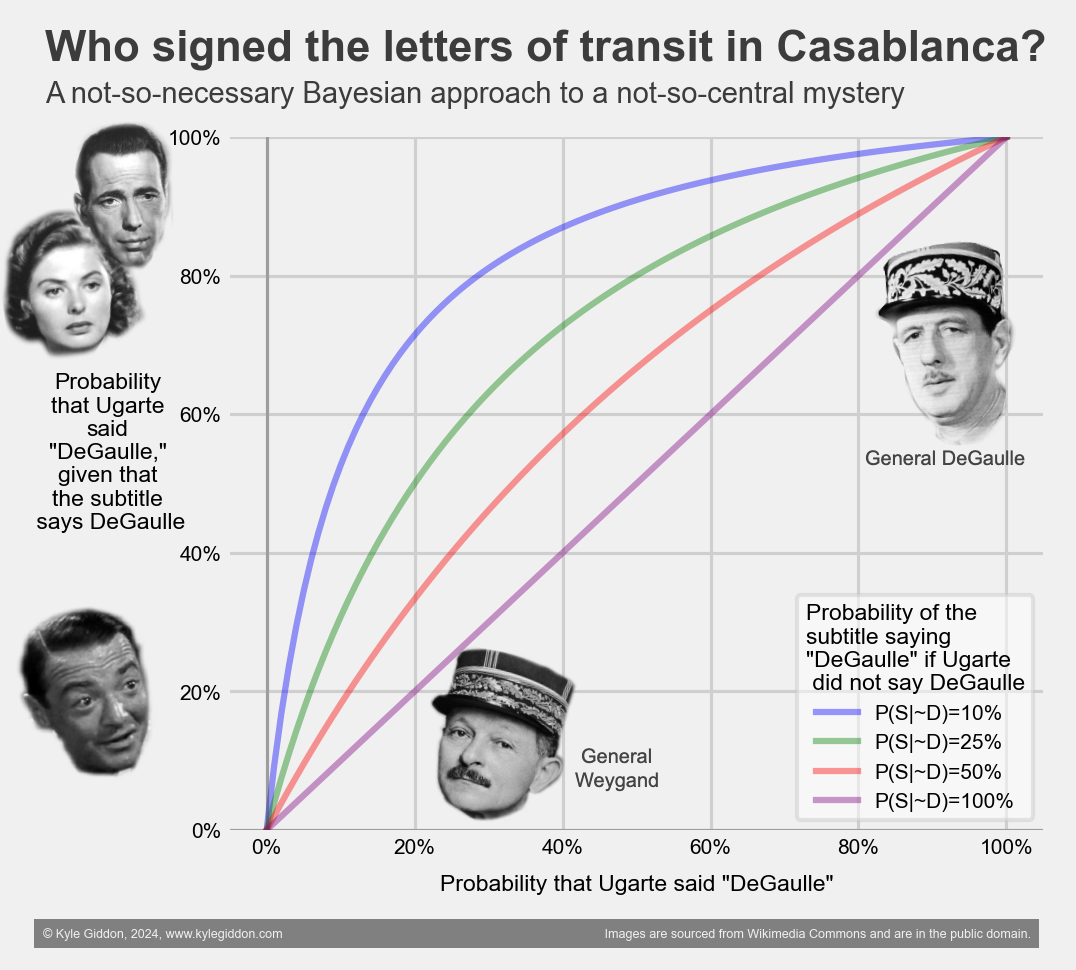
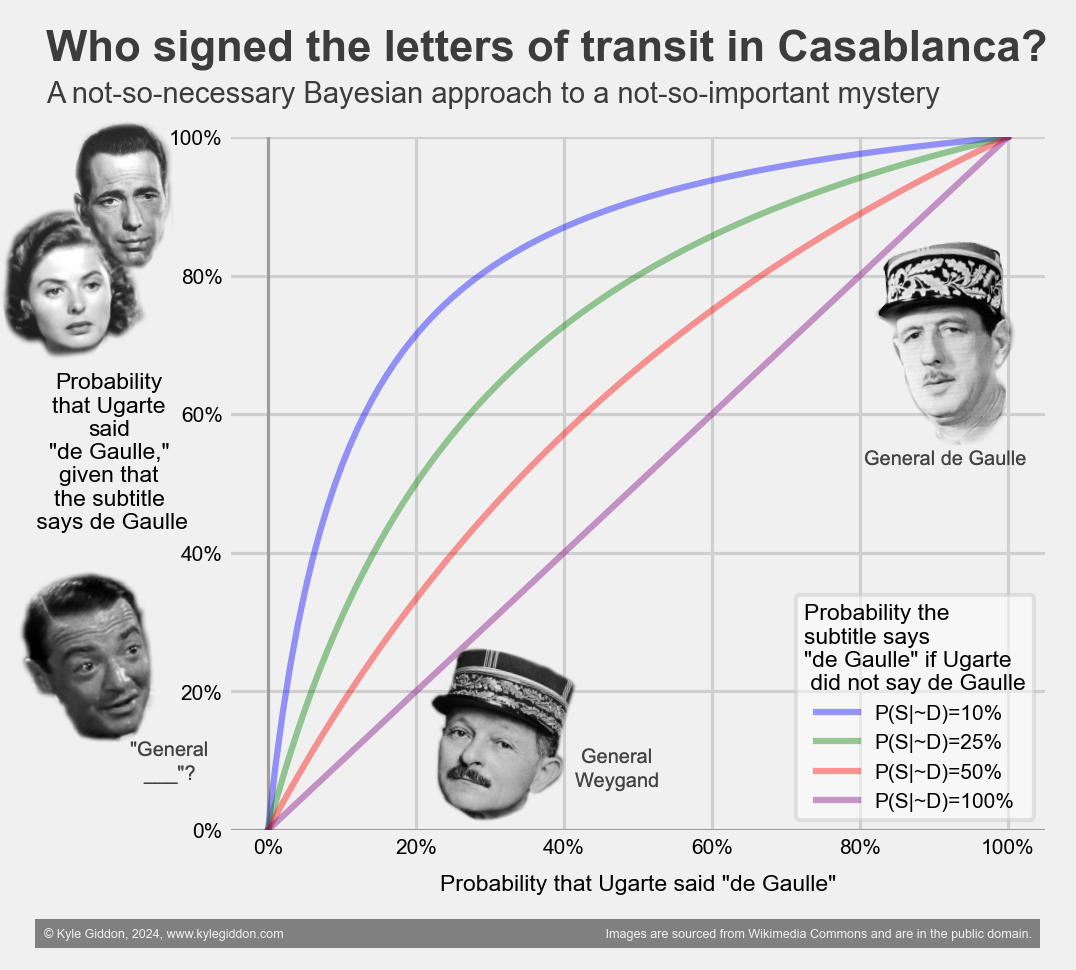
update image and de gaulle spelling

diff --git a/_posts/2024-02-17-casablanca-letters-of-transit.md b/_posts/2024-02-17-casablanca-letters-of-transit.md
@@ -6,30 +6,30 @@ usemathjax: true
 
 Last month, I was rewatching the great 1942 film *Casablanca* (as one does). Early on, the character Ugarte introduces the central [MacGuffin](https://en.wikipedia.org/wiki/MacGuffin) of the plot: the "letters of transit" that allow the bearer to move freely through Nazi-occupied territory. Watching with subtitles, I had to pause after this line:
 
-![Letters of transit signed by General DeGaulle](/images/casablanca/letters_of_transit.png)
+![Letters of transit signed by General de Gaulle](/images/casablanca/letters_of_transit.png)
 
-Letters of transit signed by General DeGaulle? This doesn't make much sense. Charles DeGaulle was the leader of the Free French forces, and his signature on certain papers would mean nothing in Vichy-controlled French West Africa, where the film is set.
+Letters of transit signed by General de Gaulle? This doesn't make much sense. Charles de Gaulle was the leader of the Free French forces, and his signature on certain papers would mean nothing in Vichy-controlled French West Africa, where the film is set.
 
-I'm not the first to notice this. This [convincing blog post by Richard Langworth](https://richardlangworth.com/darlan-degaulle-casablanca) argues that the subtitle is a mistake, and the line says the letters are signed by General *Weygand*, not DeGaulle.  [Maxime Weygand](https://en.wikipedia.org/wiki/Maxime_Weygand) was the Vichy government's Delegate-General in French North Africa—which makes perfect sense in the context of the film. (Ugarte is played by the Hungarian-accented Peter Lorre, and it's not entirely clear whether he says "DeGaulle" or "Weygand" in the original audio.)
+I'm not the first to notice this. This [convincing blog post by Richard Langworth](https://richardlangworth.com/darlan-degaulle-casablanca) argues that the subtitle is a mistake, and the line says the letters are signed by General *Weygand*, not de Gaulle.  [Maxime Weygand](https://en.wikipedia.org/wiki/Maxime_Weygand) was the Vichy government's Delegate-General in French North Africa—which makes perfect sense in the context of the film. (Ugarte is played by the Hungarian-accented Peter Lorre, and it's not entirely clear whether he says "de Gaulle" or "Weygand" in the original audio.)
 
-We can ask the question in terms of [Bayesian inference](https://en.wikipedia.org/wiki/Bayesian_inference). Given the evidence of the subtitle saying "General DeGaulle", what is the probability that Ugarte says "DeGaulle" in the actual film?
+We can ask the question in terms of [Bayesian inference](https://en.wikipedia.org/wiki/Bayesian_inference). Given the evidence of the subtitle saying "General de Gaulle", what is the probability that Ugarte says "de Gaulle" in the actual film?
 
 Let's define the following terms:
 
-- $$P(D)$$: The prior probability that Ugarte says "DeGaulle" in the film.
-- $$P(S\mid D)$$: The probability that the subtitle says "DeGaulle" given that Ugarte says "DeGaulle" in the film.
-- $$P(S\mid\neg D)$$: The probability that the subtitle says "DeGaulle" given that Ugarte does *not* say "DeGaulle" in the film.
+- $$P(D)$$: The prior probability that Ugarte says "de Gaulle" in the film.
+- $$P(S\mid D)$$: The probability that the subtitle says "de Gaulle" given that Ugarte says "de Gaulle" in the film.
+- $$P(S\mid\neg D)$$: The probability that the subtitle says "de Gaulle" given that Ugarte does *not* say "de Gaulle" in the film.
 
 
-Given this, we want to solve for $$P(D\mid S)$$, the probability that Ugarte says "DeGaulle" in the film given that the subtitle says "DeGaulle".
+Given this, we want to solve for $$P(D\mid S)$$, the probability that Ugarte says "de Gaulle" in the film given that the subtitle says "de Gaulle".
 
 What values should we assign to these terms?
 
-Because the subtitle clearly says "DeGaulle", we can assume that $$P(S\mid D) = 1$$. That is, if the line is "DeGaulle", the subtitle will certainly say "DeGaulle".
+Because the subtitle clearly says "de Gaulle", we can assume that $$P(S\mid D) = 1$$. That is, if the line is "de Gaulle", the subtitle will certainly say "de Gaulle".
 
 The other probabilities don't have obvious values. We don't have the script handy. We'll make a chart of the possible values of $$P(D)$$ and $$P(S\mid\neg D)$$, and then solve for $$P(D\mid S)$$ depending on these values.
 
-To solve for the probability that Ugarte says "DeGaulle" in the film given that the subtitle says "DeGaulle", we can use Bayes' theorem:
+To solve for the probability that Ugarte says "de Gaulle" in the film given that the subtitle says "de Gaulle", we can use Bayes' theorem:
 
 $$
 P(D|S) = \frac{P(S|D)P(D)}{P(S)}
@@ -43,16 +43,16 @@ $$
 
 After doing so, we get the following result (code is available [here](https://github.com/khgiddon/casablanca-letters-of-transit)):
 
-![Letters of transit signed by General DeGaulle](/images/casablanca/output_images.png)
+![Letters of transit signed by General de Gaulle](/images/casablanca/output_images.png)
 
 
 Now, what probabilities should we assume for $$P(D)$$ and $$P(S\mid\neg D)$$? 
 
-I assign high prior probability to Ugarte *not* saying DeGaulle, because the line does not make sense and there is an alternative (Weygand) that does make make sense. DeGaulle was famous at the time and one thinks it likely that someone on set would have noticed the error. I'd put $$P(D) = 0.05$$.
+I assign high prior probability to Ugarte *not* saying de Gaulle, because the line does not make sense and there is an alternative (Weygand) that does make make sense. de Gaulle was famous at the time and one thinks it likely that someone on set would have noticed the error. I'd put $$P(D) = 0.05$$.
 
-For $$P(S\mid\neg D)$$, or the probability that the subtitle says "DeGaulle" given that Ugarte does not say "DeGaulle," I'd put $$P(S\mid\neg D) = 0.5$$. If the subtitle writer was not looking at the script and was not sure what Ugarte said, they might have guessed "DeGaulle" because it's a much more famous name than Weygand, and may have been unfamiliar with the latter.
+For $$P(S\mid\neg D)$$, or the probability that the subtitle says "de Gaulle" given that Ugarte does not say "de Gaulle," I'd put $$P(S\mid\neg D) = 0.5$$. If the subtitle writer was not looking at the script and was not sure what Ugarte said, they might have guessed "de Gaulle" because it's a much more famous name than Weygand, and may have been unfamiliar with the latter.
 
-Using these inputs gives us $$P(D\mid S) = 0.095$$. That is, a 9.5% chance that Ugarte says "DeGaulle" in the film given that the subtitle says "DeGaulle." Substitute your own assumptions as you see fit! 
+Using these inputs gives us $$P(D\mid S) = 0.095$$. That is, a 9.5% chance that Ugarte says "de Gaulle" in the film given that the subtitle says "de Gaulle." Substitute your own assumptions as you see fit! 
 
 I'd argue that there's a much greater historical plot hole in the film—the question of why the Nazi officer Major Strasser does not arrest (or assassinate) Laszlo. Vichy would not be enough to protect him. The "answer" to that one is probably that there would not be nearly so compelling a movie if that were the case. True. All is forgiven.
 
